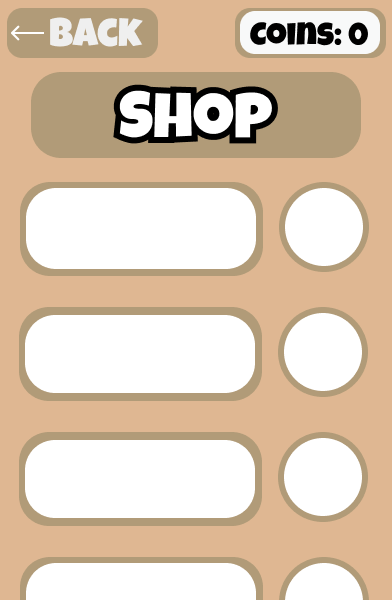
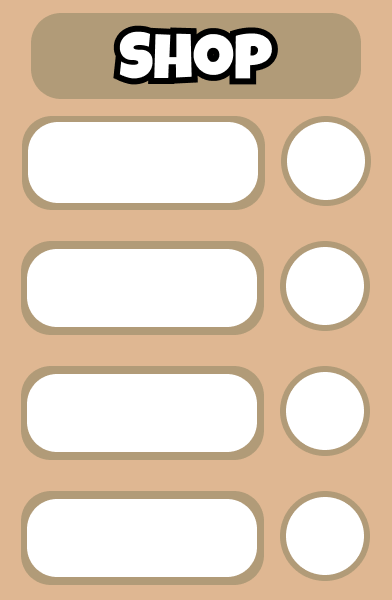
Integrated shop background

diff --git a/game.js b/game.js
@@ -1,13 +1,19 @@
 const canvas = document.getElementById("gameCanvas");
 const ctx = canvas.getContext("2d");
-const bg = new Image();
+const bgMenu = new Image();
+const bgShop = new Image();
 
 //Menu Button
 let button = { x: 100, y: 300, width: 160, height: 50, radius: 12, text: "Start" };
 
-bg.src = "assets/Menu.png"; // path to your image
+bgMenu.src = "assets/Menu.png"; // path to your image
+bgShop.src = "assets/shop.png"; // path to your image
 
-bg.onload = () => {
+bgMenu.onload = () => {
+    ctx.drawImage(bg, 0, 0, canvas.width, canvas.height);
+};
+
+bgShop.onload = () => {
     ctx.drawImage(bg, 0, 0, canvas.width, canvas.height);
 };
 
@@ -48,7 +54,7 @@ function draw() {
         ctx.clearRect(0, 0, canvas.width, canvas.height);
 
         // draw background first
-        ctx.drawImage(bg, 0, 0, canvas.width, canvas.height);
+        ctx.drawImage(bgMenu, 0, 0, canvas.width, canvas.height);
 
         // draws start button
         ctx.fillStyle = "#459CA9";
@@ -64,8 +70,11 @@ function draw() {
     }
 
     else if (currentScreen === "shop") {
-        ctx.fillStyle = "#DFB792";
-        ctx.fillRect(0, 0, canvas.width, canvas.height);
+        ctx.clearRect(0, 0, canvas.width, canvas.height);
+
+        // draw background first
+        ctx.drawImage(bgShop, 0, 0, canvas.width, canvas.height);
+
         ctx.fillStyle = "black";
         ctx.font = "24px Arial";
         ctx.fillText("🛒 Shop Screen", 100, 100);
